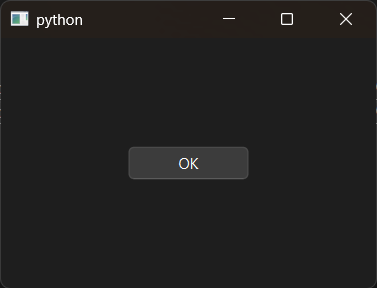
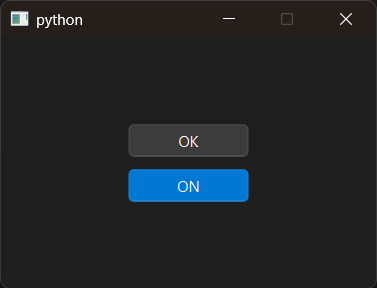
[PyQt] Update QLabel and QPushButton example.

diff --git a/Class-1/05-PushButton/main.py b/Class-1/05-PushButton/main.py
@@ -9,7 +9,16 @@ from PyQt6.QtWidgets import QApplication, QWidget, QVBoxLayout, QPushButton, QMe
 from PyQt6.QtCore import Qt
 
 
-def buttonClick(widget: QWidget):
+def toggleClicked(button: QPushButton):
+# {
+    if button.isChecked():
+        button.setText('ON')
+    else:
+        button.setText('OFF')
+# }
+
+
+def buttonClicked(widget: QWidget):
 # {
     print('---- Button clicked. ----')
 
@@ -21,6 +30,29 @@ def buttonClick(widget: QWidget):
 # }
 
 
+def createToggleButton() -> QPushButton:
+# {
+    button = QPushButton()
+
+    button.setText('OFF')
+    button.setFixedSize(100, 30)
+    button.setCheckable(True)
+    button.setStyleSheet('background-color: red')
+
+    return button
+# }
+
+
+def createPushButton() -> QPushButton:
+# {
+    button = QPushButton()
+
+    button.setText('OK')
+    button.setFixedSize(100, 30)
+
+    return button
+# }
+
 # QPushButton API : <https://doc.qt.io/qtforpython-6/PySide6/QtWidgets/QPushButton.html>
 # QMessageBox API : <https://doc.qt.io/qtforpython-6/PySide6/QtWidgets/QMessageBox.html>
 def main():
@@ -29,16 +61,17 @@ def main():
     widget = QWidget()
 
     # Controls.
-    button = QPushButton()
+    btnMessage = createPushButton()
+    btnMessage.clicked.connect(lambda: buttonClicked(widget))
 
-    button.setText('OK')
-    button.setFixedSize(100, 30)
-    button.clicked.connect(lambda: buttonClick(widget))
+    btnToggle = createToggleButton()
+    btnToggle.clicked.connect(lambda: toggleClicked(btnToggle))
 
     # Layout.
     layout = QVBoxLayout()
 
-    layout.addWidget(button)
+    layout.addWidget(btnMessage)
+    layout.addWidget(btnToggle)
     layout.setAlignment(Qt.AlignmentFlag.AlignCenter)
 
     # Widget.

diff --git a/Class-1/04-Label/main.py b/Class-1/04-Label/main.py
@@ -44,6 +44,7 @@ def showText() -> QLabel:
 # }
 
 
+# QApplication: <https://doc.qt.io/qtforpython-6/PySide6/QtWidgets/QApplication.html>
 # QWidget API : <https://doc.qt.io/qtforpython-6/PySide6/QtWidgets/QWidget.html>
 # QVBoxLayout : <https://doc.qt.io/qtforpython-6/PySide6/QtWidgets/QVBoxLayout.html>
 # QLabel  API : <https://doc.qt.io/qtforpython-6/PySide6/QtWidgets/QLabel.html>
